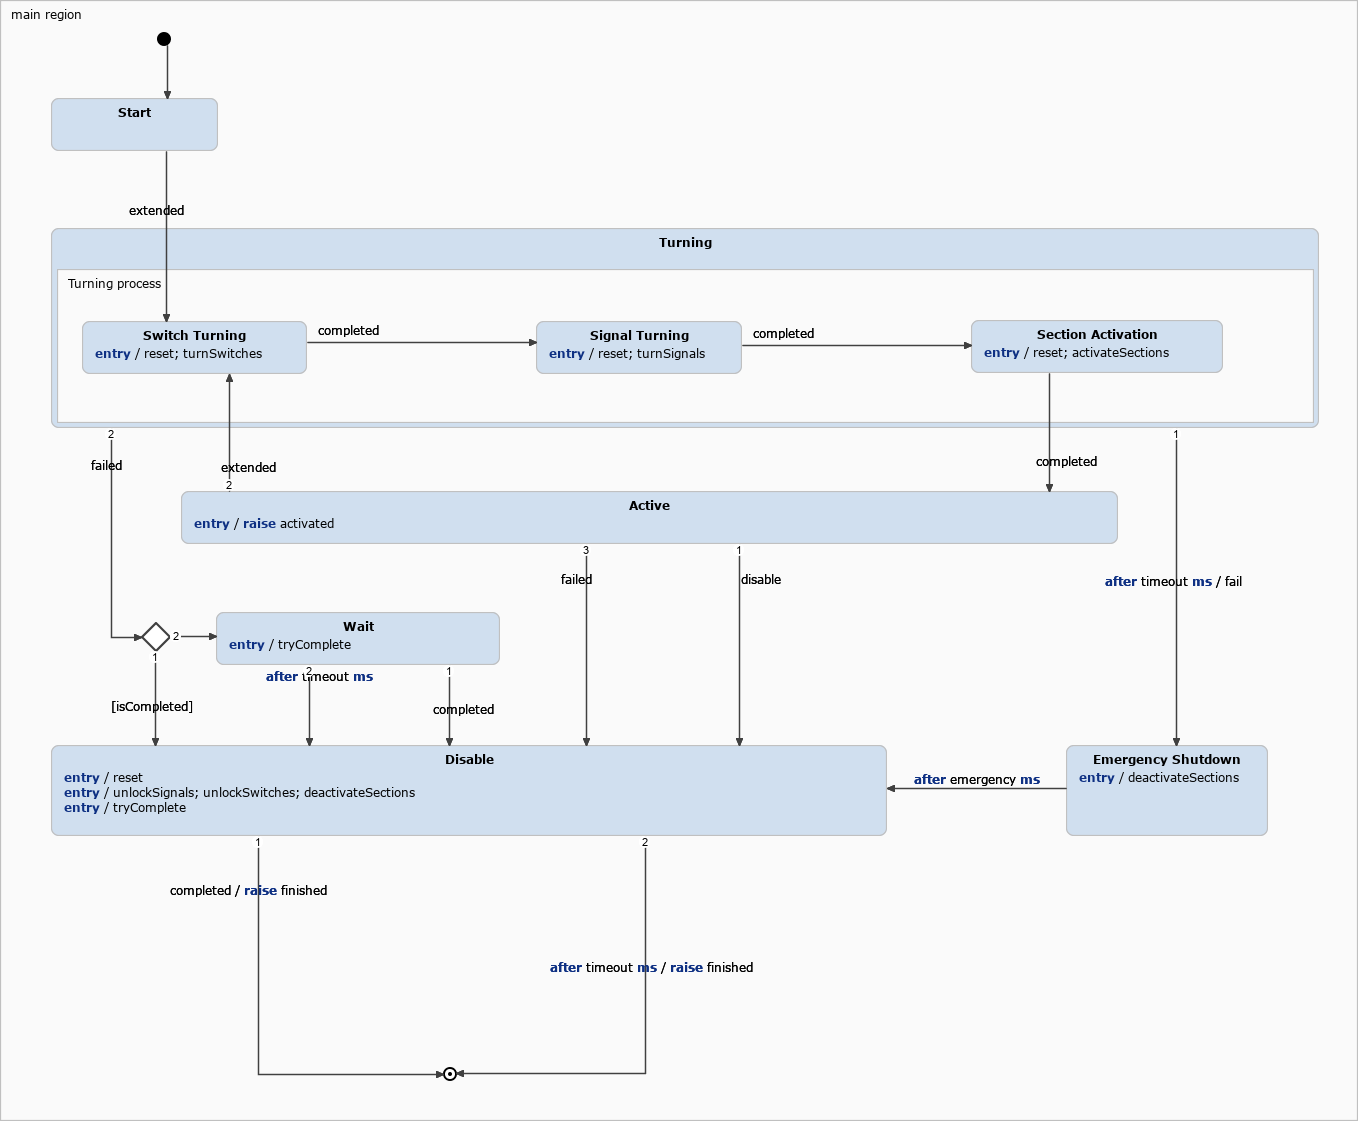
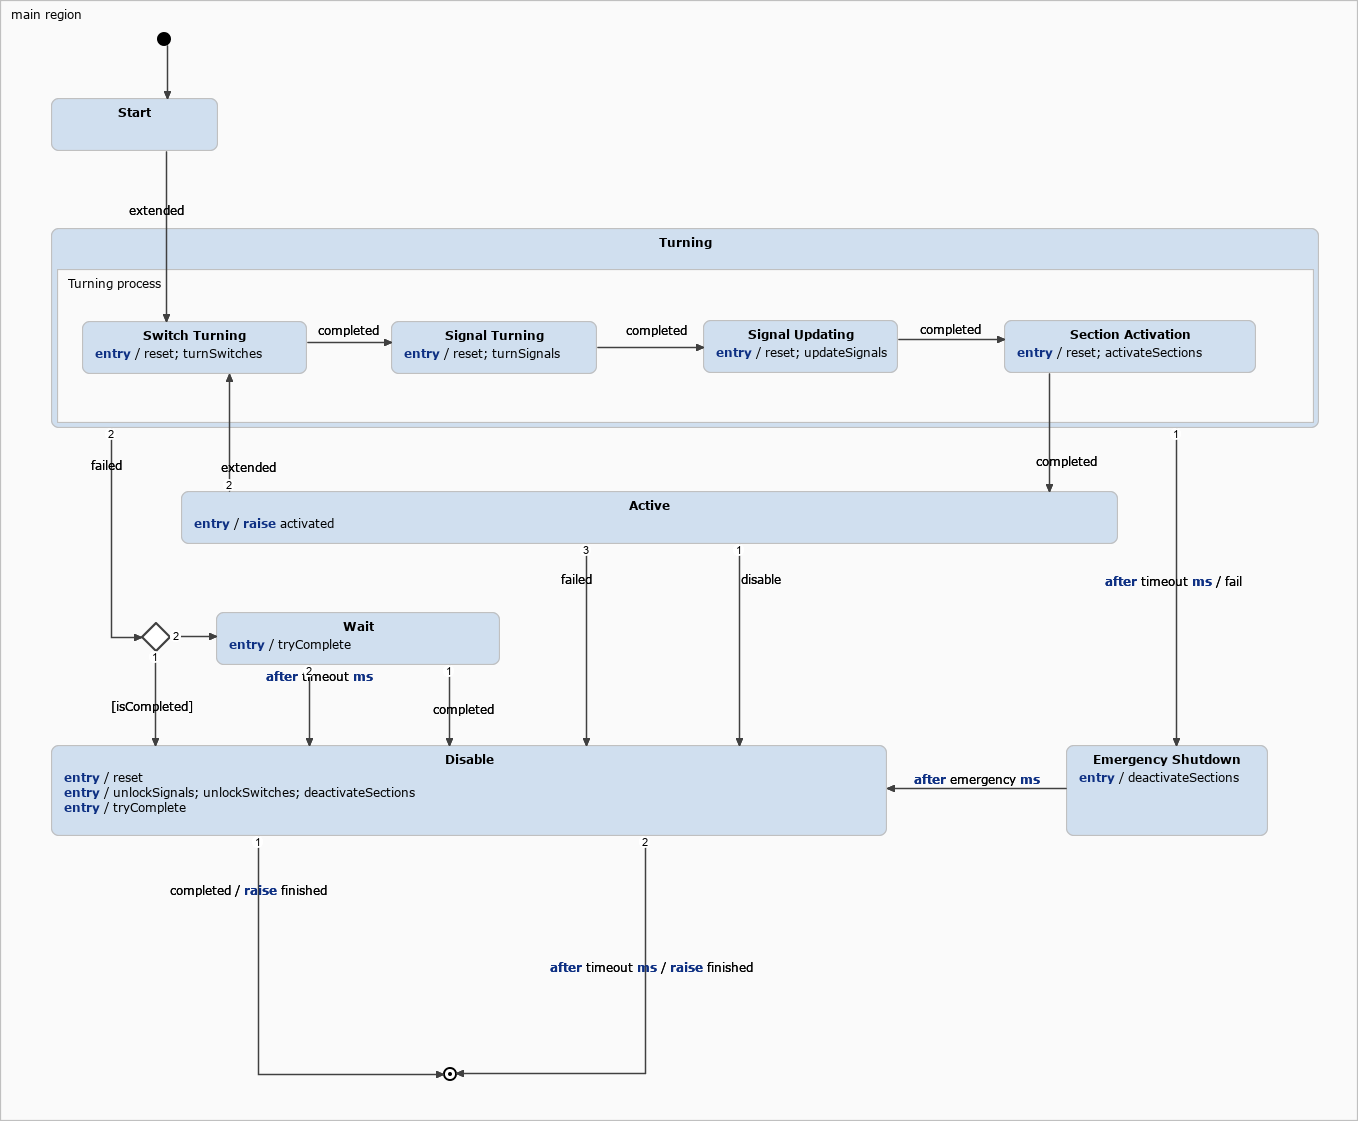
Finally corrected form signal handling in conjunction with distant signal updates.

Changed region(s): [[0.2784, 0.281, 0.866, 0.3434], [0.8969, 0.281, 0.9278, 0.3434]]

diff --git a/statecharts/RouteStatechart.cpp b/statecharts/RouteStatechart.cpp
@@ -210,7 +210,7 @@ namespace mrw
 				}
 			case mrw::statechart::RouteStatechart::State::main_region_Turning :
 				{
-					return  (stateConfVector[scvi_main_region_Turning] >= mrw::statechart::RouteStatechart::State::main_region_Turning && stateConfVector[scvi_main_region_Turning] <= mrw::statechart::RouteStatechart::State::main_region_Turning_Turning_process_Section_Activation);
+					return  (stateConfVector[scvi_main_region_Turning] >= mrw::statechart::RouteStatechart::State::main_region_Turning && stateConfVector[scvi_main_region_Turning] <= mrw::statechart::RouteStatechart::State::main_region_Turning_Turning_process_Signal_Updating);
 					break;
 				}
 			case mrw::statechart::RouteStatechart::State::main_region_Turning_Turning_process_Switch_Turning :
@@ -226,6 +226,11 @@ namespace mrw
 			case mrw::statechart::RouteStatechart::State::main_region_Turning_Turning_process_Section_Activation :
 				{
 					return  (stateConfVector[scvi_main_region_Turning_Turning_process_Section_Activation] == mrw::statechart::RouteStatechart::State::main_region_Turning_Turning_process_Section_Activation);
+					break;
+				}
+			case mrw::statechart::RouteStatechart::State::main_region_Turning_Turning_process_Signal_Updating :
+				{
+					return  (stateConfVector[scvi_main_region_Turning_Turning_process_Signal_Updating] == mrw::statechart::RouteStatechart::State::main_region_Turning_Turning_process_Signal_Updating);
 					break;
 				}
 			case mrw::statechart::RouteStatechart::State::main_region_Wait :
@@ -321,6 +326,14 @@ namespace mrw
 			/* Entry action for state 'Section Activation'. */
 			ifaceOperationCallback->reset();
 			ifaceOperationCallback->activateSections();
+		}
+
+		/* Entry action for state 'Signal Updating'. */
+		void RouteStatechart::enact_main_region_Turning_Turning_process_Signal_Updating()
+		{
+			/* Entry action for state 'Signal Updating'. */
+			ifaceOperationCallback->reset();
+			ifaceOperationCallback->updateSignals();
 		}
 
 		/* Entry action for state 'Wait'. */
@@ -421,6 +434,14 @@ namespace mrw
 			stateConfVector[0] = mrw::statechart::RouteStatechart::State::main_region_Turning_Turning_process_Section_Activation;
 		}
 
+		/* 'default' enter sequence for state Signal Updating */
+		void RouteStatechart::enseq_main_region_Turning_Turning_process_Signal_Updating_default()
+		{
+			/* 'default' enter sequence for state Signal Updating */
+			enact_main_region_Turning_Turning_process_Signal_Updating();
+			stateConfVector[0] = mrw::statechart::RouteStatechart::State::main_region_Turning_Turning_process_Signal_Updating;
+		}
+
 		/* 'default' enter sequence for state Wait */
 		void RouteStatechart::enseq_main_region_Wait_default()
 		{
@@ -502,6 +523,13 @@ namespace mrw
 			stateConfVector[0] = mrw::statechart::RouteStatechart::State::NO_STATE;
 		}
 
+		/* Default exit sequence for state Signal Updating */
+		void RouteStatechart::exseq_main_region_Turning_Turning_process_Signal_Updating()
+		{
+			/* Default exit sequence for state Signal Updating */
+			stateConfVector[0] = mrw::statechart::RouteStatechart::State::NO_STATE;
+		}
+
 		/* Default exit sequence for state Wait */
 		void RouteStatechart::exseq_main_region_Wait()
 		{
@@ -563,6 +591,12 @@ namespace mrw
 					exact_main_region_Turning();
 					break;
 				}
+			case mrw::statechart::RouteStatechart::State::main_region_Turning_Turning_process_Signal_Updating :
+				{
+					exseq_main_region_Turning_Turning_process_Signal_Updating();
+					exact_main_region_Turning();
+					break;
+				}
 			case mrw::statechart::RouteStatechart::State::main_region_Wait :
 				{
 					exseq_main_region_Wait();
@@ -599,6 +633,11 @@ namespace mrw
 			case mrw::statechart::RouteStatechart::State::main_region_Turning_Turning_process_Section_Activation :
 				{
 					exseq_main_region_Turning_Turning_process_Section_Activation();
+					break;
+				}
+			case mrw::statechart::RouteStatechart::State::main_region_Turning_Turning_process_Signal_Updating :
+				{
+					exseq_main_region_Turning_Turning_process_Signal_Updating();
 					break;
 				}
 			default:
@@ -812,7 +851,7 @@ namespace mrw
 				if (completed_raised)
 				{
 					exseq_main_region_Turning_Turning_process_Signal_Turning();
-					enseq_main_region_Turning_Turning_process_Section_Activation_default();
+					enseq_main_region_Turning_Turning_process_Signal_Updating_default();
 					main_region_Turning_react(0);
 					transitioned_after = 0;
 				}
@@ -836,6 +875,28 @@ namespace mrw
 					exseq_main_region_Turning();
 					enseq_main_region_Active_default();
 					react(0);
+					transitioned_after = 0;
+				}
+			}
+			/* If no transition was taken then execute local reactions */
+			if ((transitioned_after) == (transitioned_before))
+			{
+				transitioned_after = main_region_Turning_react(transitioned_before);
+			}
+			return transitioned_after;
+		}
+
+		sc::integer RouteStatechart::main_region_Turning_Turning_process_Signal_Updating_react(const sc::integer transitioned_before)
+		{
+			/* The reactions of state Signal Updating. */
+			sc::integer transitioned_after = transitioned_before;
+			if ((transitioned_after) < (0))
+			{
+				if (completed_raised)
+				{
+					exseq_main_region_Turning_Turning_process_Signal_Updating();
+					enseq_main_region_Turning_Turning_process_Section_Activation_default();
+					main_region_Turning_react(0);
 					transitioned_after = 0;
 				}
 			}
@@ -952,6 +1013,11 @@ namespace mrw
 			case mrw::statechart::RouteStatechart::State::main_region_Turning_Turning_process_Section_Activation :
 				{
 					main_region_Turning_Turning_process_Section_Activation_react(-1);
+					break;
+				}
+			case mrw::statechart::RouteStatechart::State::main_region_Turning_Turning_process_Signal_Updating :
+				{
+					main_region_Turning_Turning_process_Signal_Updating_react(-1);
 					break;
 				}
 			case mrw::statechart::RouteStatechart::State::main_region_Wait :

diff --git a/statecharts/RouteStatechart.h b/statecharts/RouteStatechart.h
@@ -58,12 +58,13 @@ namespace mrw
 				main_region_Turning_Turning_process_Switch_Turning,
 				main_region_Turning_Turning_process_Signal_Turning,
 				main_region_Turning_Turning_process_Section_Activation,
+				main_region_Turning_Turning_process_Signal_Updating,
 				main_region_Wait,
 				main_region_Emergency_Shutdown
 			};
 
 			/*! The number of states. */
-			static const sc::integer numStates = 10;
+			static const sc::integer numStates = 11;
 			static const sc::integer scvi_main_region_Active = 0;
 			static const sc::integer scvi_main_region_Disable = 0;
 			static const sc::integer scvi_main_region_Start = 0;
@@ -72,6 +73,7 @@ namespace mrw
 			static const sc::integer scvi_main_region_Turning_Turning_process_Switch_Turning = 0;
 			static const sc::integer scvi_main_region_Turning_Turning_process_Signal_Turning = 0;
 			static const sc::integer scvi_main_region_Turning_Turning_process_Section_Activation = 0;
+			static const sc::integer scvi_main_region_Turning_Turning_process_Signal_Updating = 0;
 			static const sc::integer scvi_main_region_Wait = 0;
 			static const sc::integer scvi_main_region_Emergency_Shutdown = 0;
 
@@ -131,6 +133,8 @@ namespace mrw
 				virtual void activateSections() = 0;
 
 				virtual void turnSignals() = 0;
+
+				virtual void updateSignals() = 0;
 
 				virtual void deactivateSections() = 0;
 
@@ -257,6 +261,7 @@ namespace mrw
 			void enact_main_region_Turning_Turning_process_Switch_Turning();
 			void enact_main_region_Turning_Turning_process_Signal_Turning();
 			void enact_main_region_Turning_Turning_process_Section_Activation();
+			void enact_main_region_Turning_Turning_process_Signal_Updating();
 			void enact_main_region_Wait();
 			void enact_main_region_Emergency_Shutdown();
 			void exact_main_region_Disable();
@@ -270,6 +275,7 @@ namespace mrw
 			void enseq_main_region_Turning_Turning_process_Switch_Turning_default();
 			void enseq_main_region_Turning_Turning_process_Signal_Turning_default();
 			void enseq_main_region_Turning_Turning_process_Section_Activation_default();
+			void enseq_main_region_Turning_Turning_process_Signal_Updating_default();
 			void enseq_main_region_Wait_default();
 			void enseq_main_region_Emergency_Shutdown_default();
 			void enseq_main_region_default();
@@ -281,6 +287,7 @@ namespace mrw
 			void exseq_main_region_Turning_Turning_process_Switch_Turning();
 			void exseq_main_region_Turning_Turning_process_Signal_Turning();
 			void exseq_main_region_Turning_Turning_process_Section_Activation();
+			void exseq_main_region_Turning_Turning_process_Signal_Updating();
 			void exseq_main_region_Wait();
 			void exseq_main_region_Emergency_Shutdown();
 			void exseq_main_region();
@@ -296,6 +303,7 @@ namespace mrw
 			sc::integer main_region_Turning_Turning_process_Switch_Turning_react(const sc::integer transitioned_before);
 			sc::integer main_region_Turning_Turning_process_Signal_Turning_react(const sc::integer transitioned_before);
 			sc::integer main_region_Turning_Turning_process_Section_Activation_react(const sc::integer transitioned_before);
+			sc::integer main_region_Turning_Turning_process_Signal_Updating_react(const sc::integer transitioned_before);
 			sc::integer main_region_Wait_react(const sc::integer transitioned_before);
 			sc::integer main_region_Emergency_Shutdown_react(const sc::integer transitioned_before);
 			void clearInEvents();

diff --git a/track-control/widgetroute.cpp b/track-control/widgetroute.cpp
@@ -445,6 +445,22 @@ void WidgetRoute::collectSignalController(std::vector<SignalControllerProxy *> &
 	}
 }
 
+void WidgetRoute::collectSignalController(
+	std::vector<SignalControllerProxy *> & controllers,
+	const bool                             unlocked) const
+{
+	controllers.clear();
+	for (Section * section : sections)
+	{
+		SignalControllerProxy * controller = getSignalController(section);
+
+		if ((controller != nullptr) && (controller->isUnlocked() == unlocked))
+		{
+			controllers.push_back(controller);
+		}
+	}
+}
+
 void WidgetRoute::collectSectionControllers(std::vector<SectionController *> & controllers) const
 {
 	controllers.clear();
@@ -554,29 +570,42 @@ void WidgetRoute::deactivateSections()
 	}
 }
 
+#define DIVIDED_UPDATE
+
 void WidgetRoute::turnSignals()
 {
 	__METHOD__;
 
-	std::vector<SignalControllerProxy *> controllers;
+	collectSignalController(controllers_unlocked, true);
+	collectSignalController(controllers_locked,   false);
 
-	collectSignalController(controllers);
-	for (auto it = controllers.rbegin(); it != controllers.rend(); ++it)
+	for (auto it = controllers_unlocked.rbegin(); it != controllers_unlocked.rend(); ++it)
 	{
 		SignalControllerProxy * controller = *it;
 
-		if (controller->isUnlocked())
-		{
-			controller->enable();
-		}
-		else
-		{
-			controller->update();
-		}
+		controller->enable();
 		qDebug().noquote() << *controller;
 	}
 
-	if (controllers.size() == 0)
+	if (controllers_unlocked.size() == 0)
+	{
+		ControllerRegistry::instance().complete();
+	}
+}
+
+void WidgetRoute::updateSignals()
+{
+	__METHOD__;
+
+	for (auto it = controllers_locked.rbegin(); it != controllers_locked.rend(); ++it)
+	{
+		SignalControllerProxy * controller = *it;
+
+		controller->update();
+		qDebug().noquote() << *controller;
+	}
+
+	if (controllers_locked.size() == 0)
 	{
 		ControllerRegistry::instance().complete();
 	}

diff --git a/track-control/widgetroute.h b/track-control/widgetroute.h
@@ -29,6 +29,9 @@ private:
 
 	mrw::statechart::RouteStatechart   statechart;
 
+	std::vector<mrw::ctrl::SignalControllerProxy *> controllers_unlocked;
+	std::vector<mrw::ctrl::SignalControllerProxy *> controllers_locked;
+
 public:
 	static const int        USER_ROLE = Qt::UserRole + 1;
 
@@ -66,6 +69,9 @@ private:
 
 	void collectSignalController(
 		std::vector<mrw::ctrl::SignalControllerProxy *> & controllers) const;
+	void collectSignalController(
+		std::vector<mrw::ctrl::SignalControllerProxy *> & controllers,
+		const bool                                        unlocked) const;
 	void collectSectionControllers(
 		std::vector<mrw::ctrl::SectionController *>   &   controllers) const;
 
@@ -90,6 +96,7 @@ private:
 	virtual void turnSwitches() override;
 	virtual void activateSections() override;
 	virtual void turnSignals() override;
+	virtual void updateSignals() override;
 	virtual void deactivateSections() override;
 	virtual void unlockSignals() override;
 	virtual void unlockSwitches() override;

diff --git a/track-control/ctrl/signalcontrollerproxy.cpp b/track-control/ctrl/signalcontrollerproxy.cpp
@@ -87,7 +87,7 @@ SignalControllerProxy::SignalControllerProxy(
 	connect(
 		this, &SignalControllerProxy::enable,
 		&statechart, &SignalControllerStatechart::enable,
-		Qt::QueuedConnection);
+		Qt::DirectConnection);
 	connect(
 		this, &SignalControllerProxy::update,
 		&statechart, &SignalControllerStatechart::update,
@@ -391,7 +391,7 @@ QString SignalControllerProxy::toString() const
 
 		arg(grouped_name, -10).
 		arg(Signal::get(symbol), -4).
-		arg(Device::get(lock_state), -7).
+		arg(Device::get(lock_state), -8).
 		arg(Signal::get(main()),    -4).
 		arg(Signal::get(distant()), -4).
 		arg(Signal::get(shunt()),   -4);

diff --git a/track-control/regionform.cpp b/track-control/regionform.cpp
@@ -107,7 +107,7 @@ void RegionForm::setupSize(Region * region)
 	}
 
 	ui->controlWidget->setFixedSize(
-		xMax * BaseWidget::SIZE / Position::FRACTION,
+		xMax * BaseWidget::SIZE / Position::FRACTION + BaseWidget::SIZE,
 		yMax * BaseWidget::SIZE / Position::FRACTION + BaseWidget::SIZE);
 }
 

diff --git a/track-control/ctrl/signalproxy.cpp b/track-control/ctrl/signalproxy.cpp
@@ -67,7 +67,7 @@ void SignalProxy::send()
 	ControllerRegistry::can()->write(message);
 }
 
-void mrw::ctrl::SignalProxy::dump()
+void SignalProxy::dump()
 {
 	__METHOD__;
 
